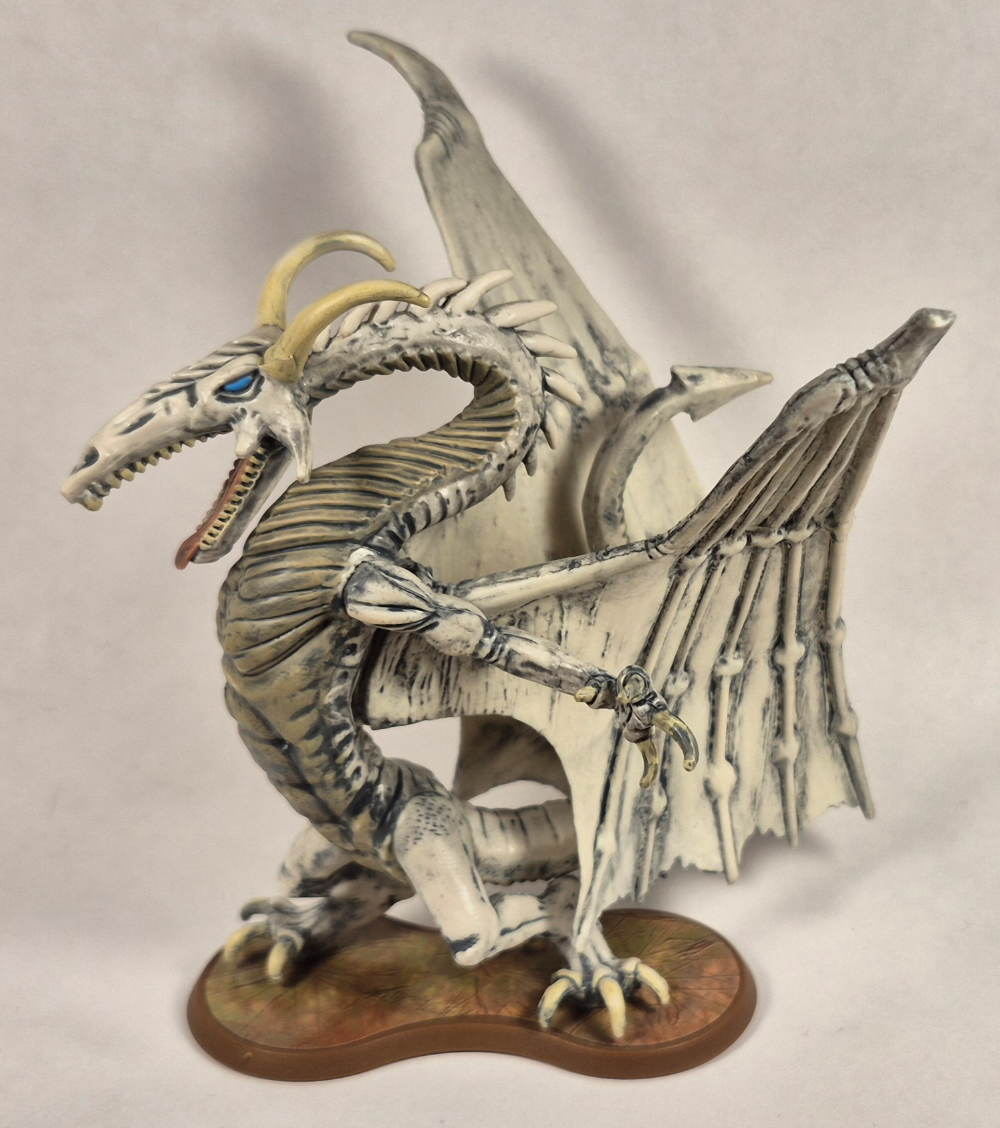
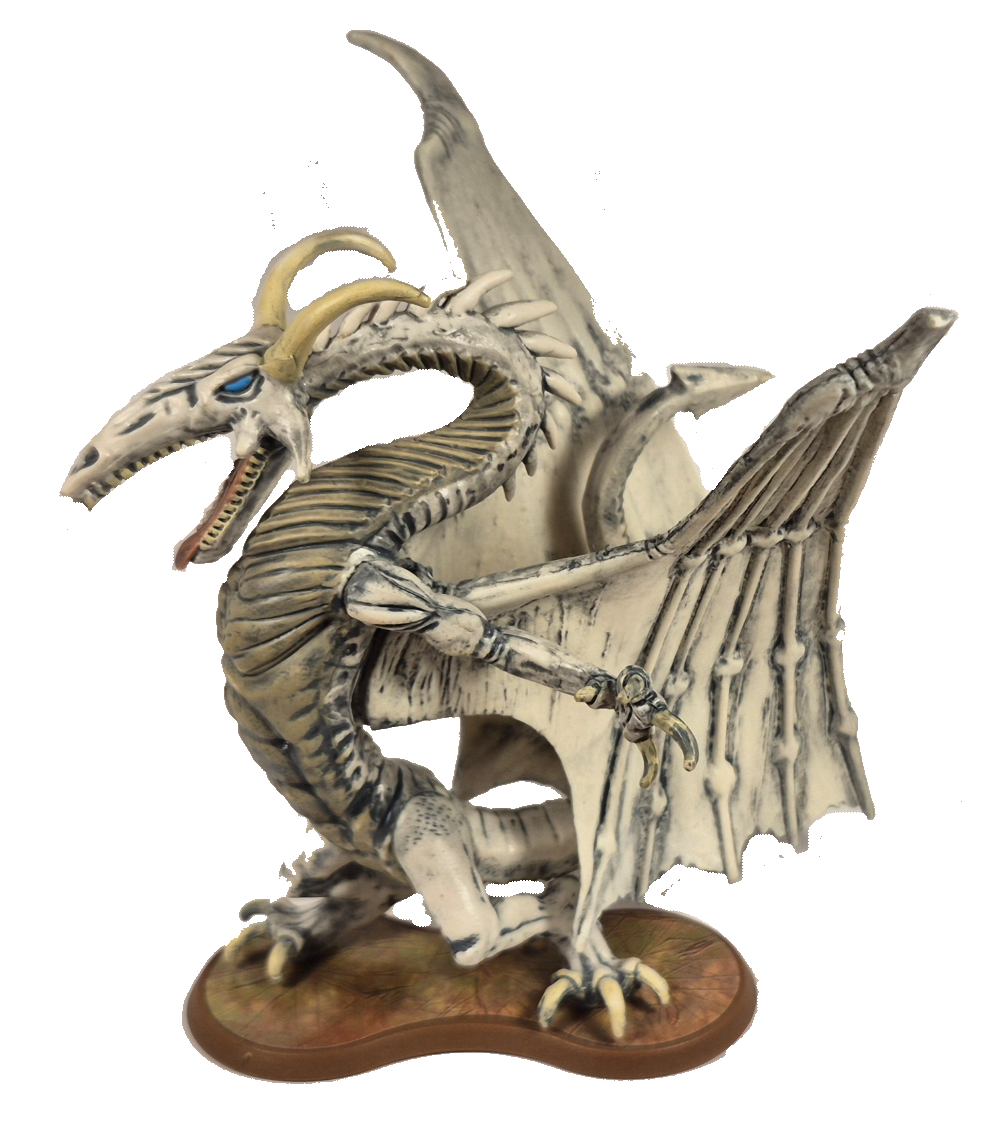
HeroScape: final Nilfheim cut — user hand-erased the white bone dragon
Replace the working full-frame image with the user's cleaned cut-out (grey
backdrop erased to transparent, full head/horns/wings intact). Bump IMG_V.

diff --git a/src/app/heroscape-sandbox/page.tsx b/src/app/heroscape-sandbox/page.tsx
@@ -18,7 +18,7 @@ const HeroBoard3D = dynamic(() => import('@/components/HeroBoard3D'), { ssr: fal
 const COLORS = ['#ef4444', '#3b82f6', '#eab308', '#a855f7', '#ec4899', '#14b8a6'];
 // Cache-bust for the figure PNGs — bump whenever a cut-out is re-cut so the gallery (and
 // browser) fetch the new image instead of a stale same-named copy.
-const IMG_V = '20260626c';
+const IMG_V = '20260626d';
 
 function shade(hex: string, f: number): string {
   const n = parseInt(hex.slice(1), 16);